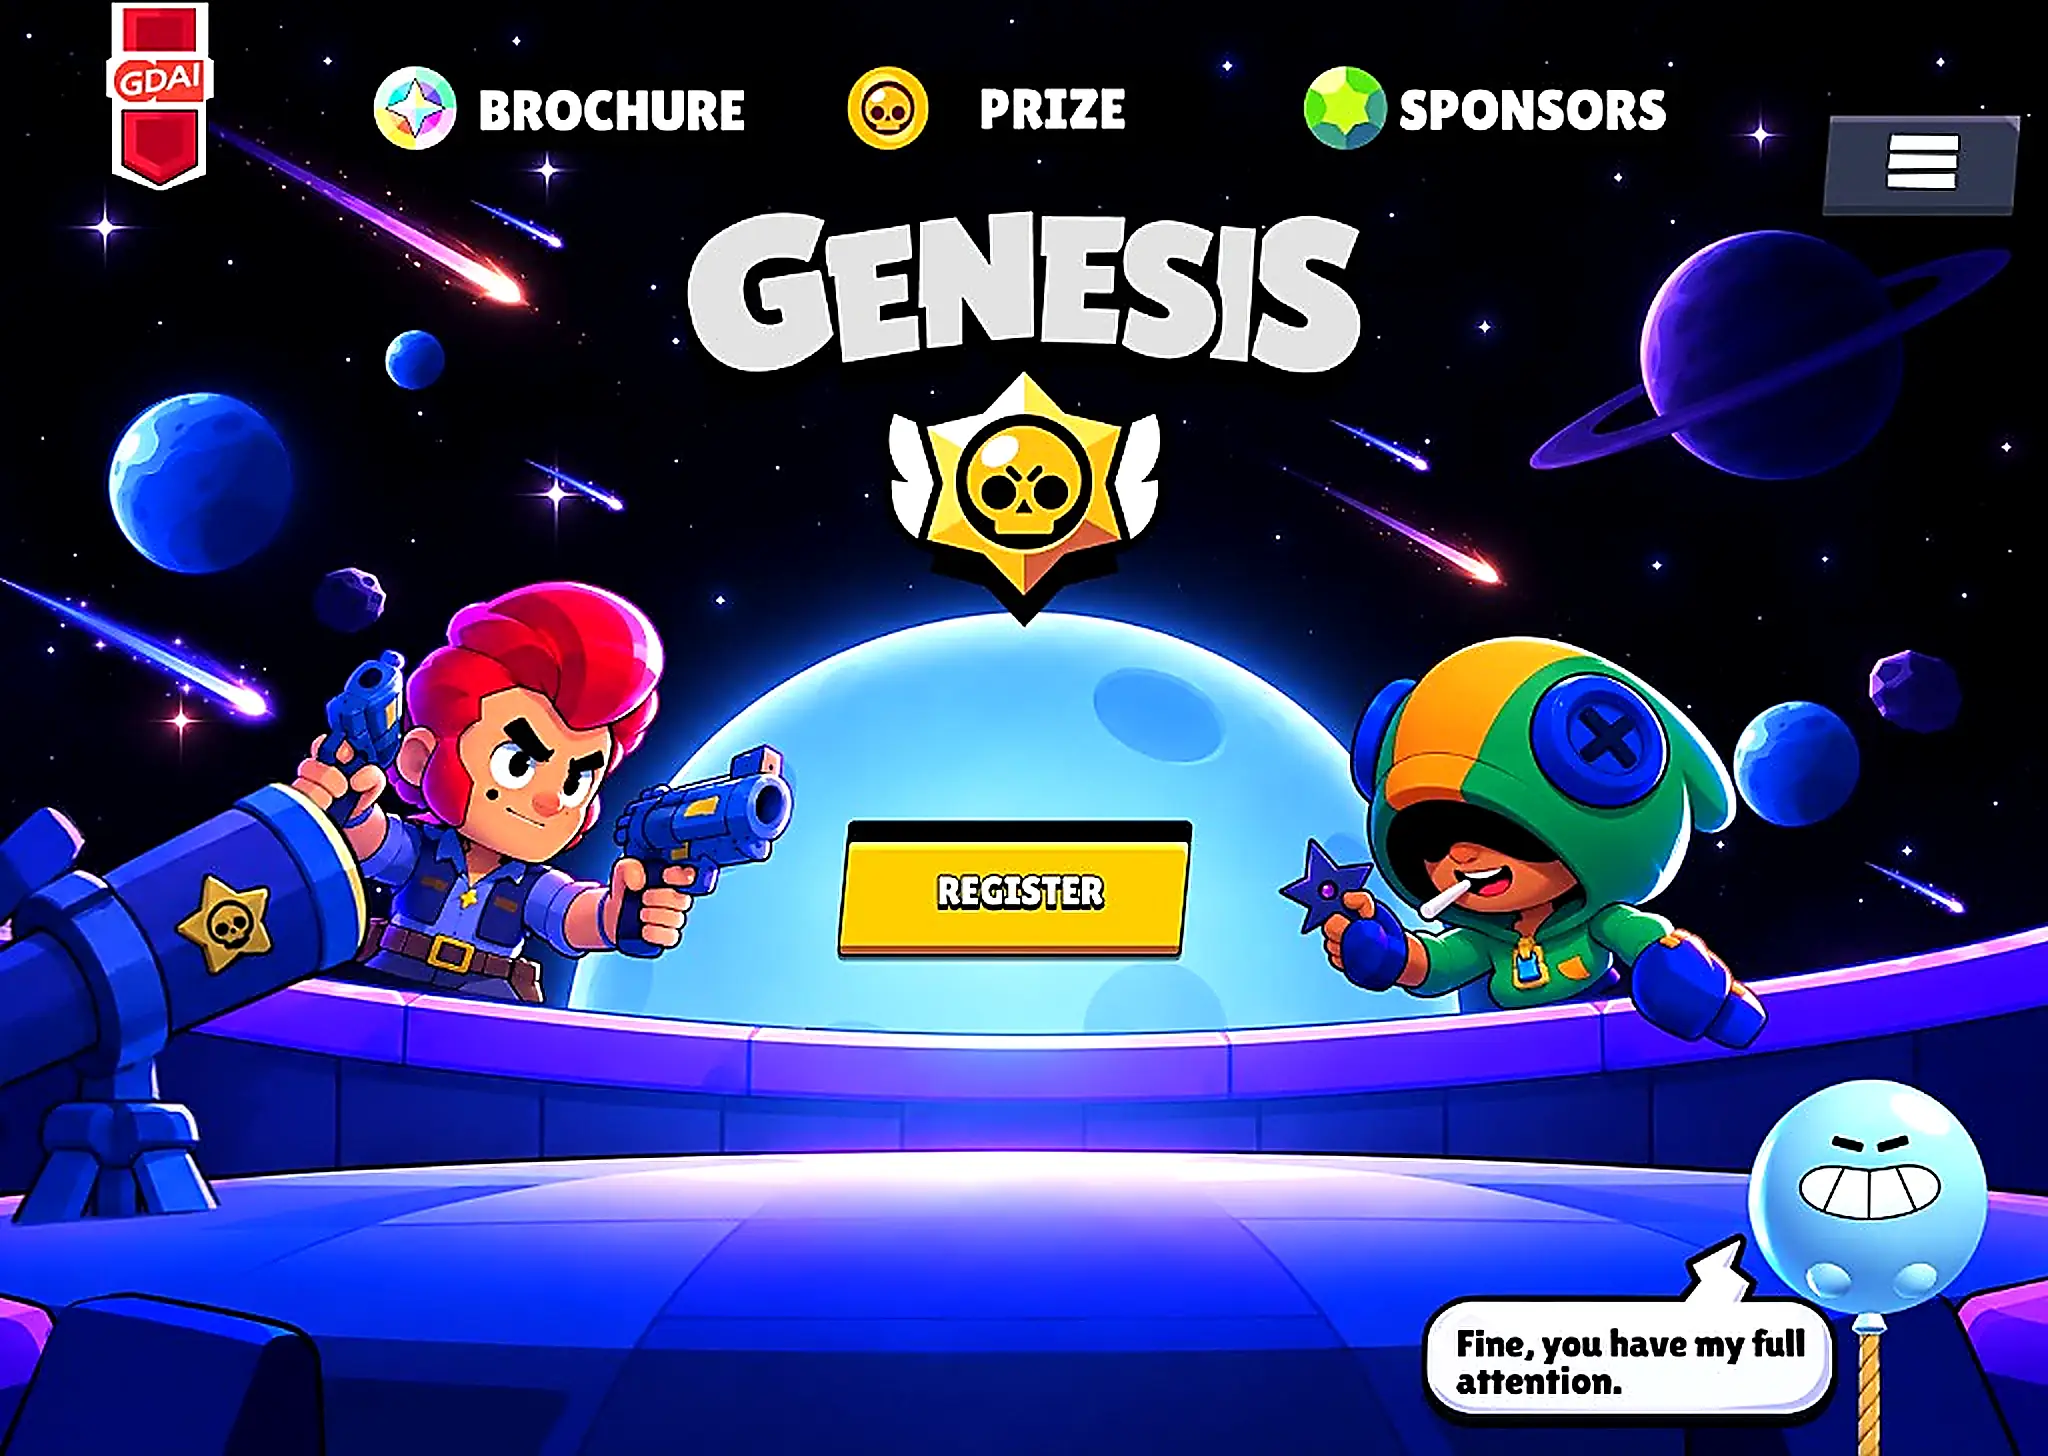
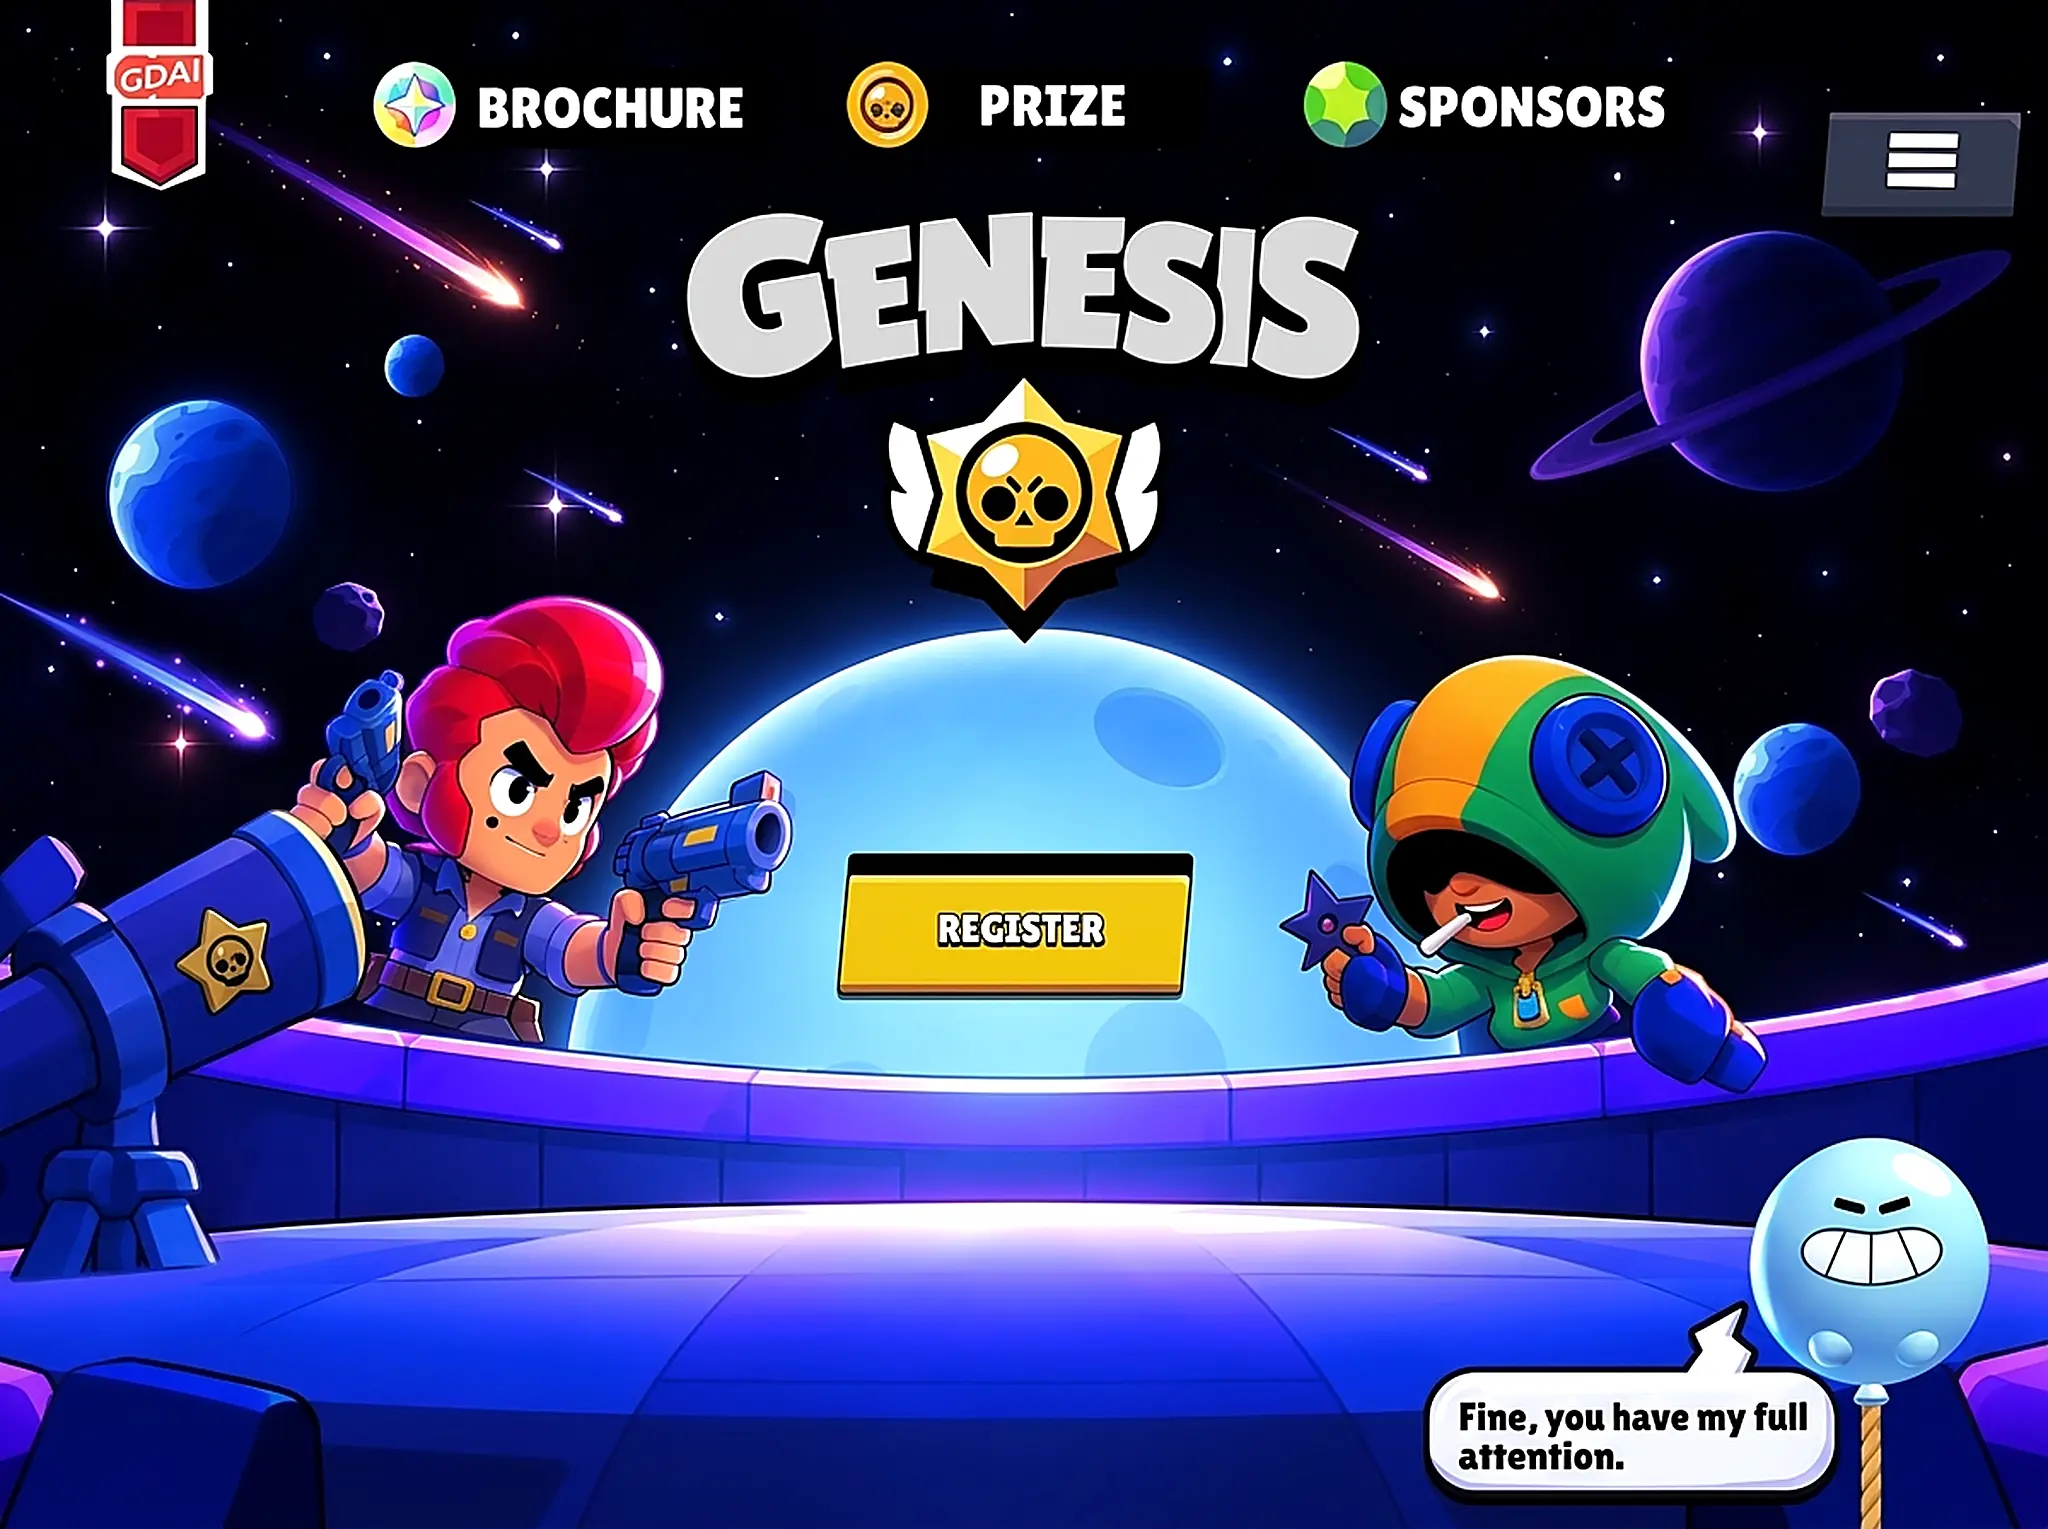
feat(hero): integrate crystal-clear upscaled 4k artwork with live tournament countdown and squads hud

diff --git a/components/hero/GenesisBrawlHero.tsx b/components/hero/GenesisBrawlHero.tsx
@@ -2,6 +2,7 @@
 
 import React, { useState, useEffect, useCallback } from 'react';
 import Image from 'next/image';
+import { HeroCountdown } from './HeroCountdown';
 
 interface Meteor {
   id: number;
@@ -346,7 +347,12 @@ export const GenesisBrawlHero: React.FC = () => {
           <div className="absolute inset-0 rounded-lg border-2 border-yellow-300/0 group-hover:border-yellow-300 group-hover:shadow-[0_0_20px_rgba(255,183,3,0.7)] transition-all" />
         </a>
 
-        {/* 10. FUNCTIONAL INTERACTIVE HOTSPOTS: Top Navigation Items */}
+        {/* 10. LIVE TOURNAMENT COUNTDOWN & SQUADS HUD ON OBSERVATORY DECK */}
+        <div className="pointer-events-auto absolute top-[66.5%] left-[22%] w-[56%] z-30 flex flex-col items-center justify-center transform scale-[0.72] sm:scale-[0.88] md:scale-95 lg:scale-100 origin-top">
+          <HeroCountdown />
+        </div>
+
+        {/* 11. FUNCTIONAL INTERACTIVE HOTSPOTS: Top Navigation Items */}
         {/* Top-Left: GDAI Crest */}
         <button
           onClick={handleGdaiClick}

diff --git a/scripts/upscale_image.py b/scripts/upscale_image.py
@@ -1,0 +1,35 @@
+import os
+from PIL import Image, ImageFilter, ImageEnhance
+
+source_path = r"C:/Users/Abhishekh/.gemini/antigravity/brain/9c55db0a-165b-40ea-bb91-fba4c43db498/.user_uploaded/media_1791866289052_d3e0d4ba.jpg"
+out_dir = r"g:/new try 1/public/img/hero"
+os.makedirs(out_dir, exist_ok=True)
+
+img = Image.open(source_path)
+print(f"Original size: {img.size}")
+
+# 2X upscale (2048 x 1456) with high quality Lanczos filter
+w, h = img.size
+upscaled = img.resize((w * 2, h * 2), Image.Resampling.LANCZOS)
+
+# Multi-scale unsharp masking for crisp cartoon line art edges
+# First pass: medium edge definition
+upscaled = upscaled.filter(ImageFilter.UnsharpMask(radius=2.0, percent=130, threshold=2))
+# Second pass: micro-contrast fine edge details
+upscaled = upscaled.filter(ImageFilter.UnsharpMask(radius=1.0, percent=70, threshold=1))
+
+# Enhance contrast and color vibrancy slightly for game arcade pop
+enhancer_con = ImageEnhance.Contrast(upscaled)
+upscaled = enhancer_con.enhance(1.05)
+enhancer_col = ImageEnhance.Color(upscaled)
+upscaled = enhancer_col.enhance(1.06)
+
+# Save high-res PNG
+out_png = os.path.join(out_dir, "genesis-brawl-hero-highres.png")
+upscaled.save(out_png, "PNG", optimize=True)
+print(f"Saved high-res PNG: {out_png} ({os.path.getsize(out_png) / 1024:.2f} KB)")
+
+# Save high-res WebP with high quality (88%)
+out_webp = os.path.join(out_dir, "genesis-brawl-hero-highres.webp")
+upscaled.save(out_webp, "WEBP", quality=88, method=6)
+print(f"Saved high-res WebP: {out_webp} ({os.path.getsize(out_webp) / 1024:.2f} KB)")
